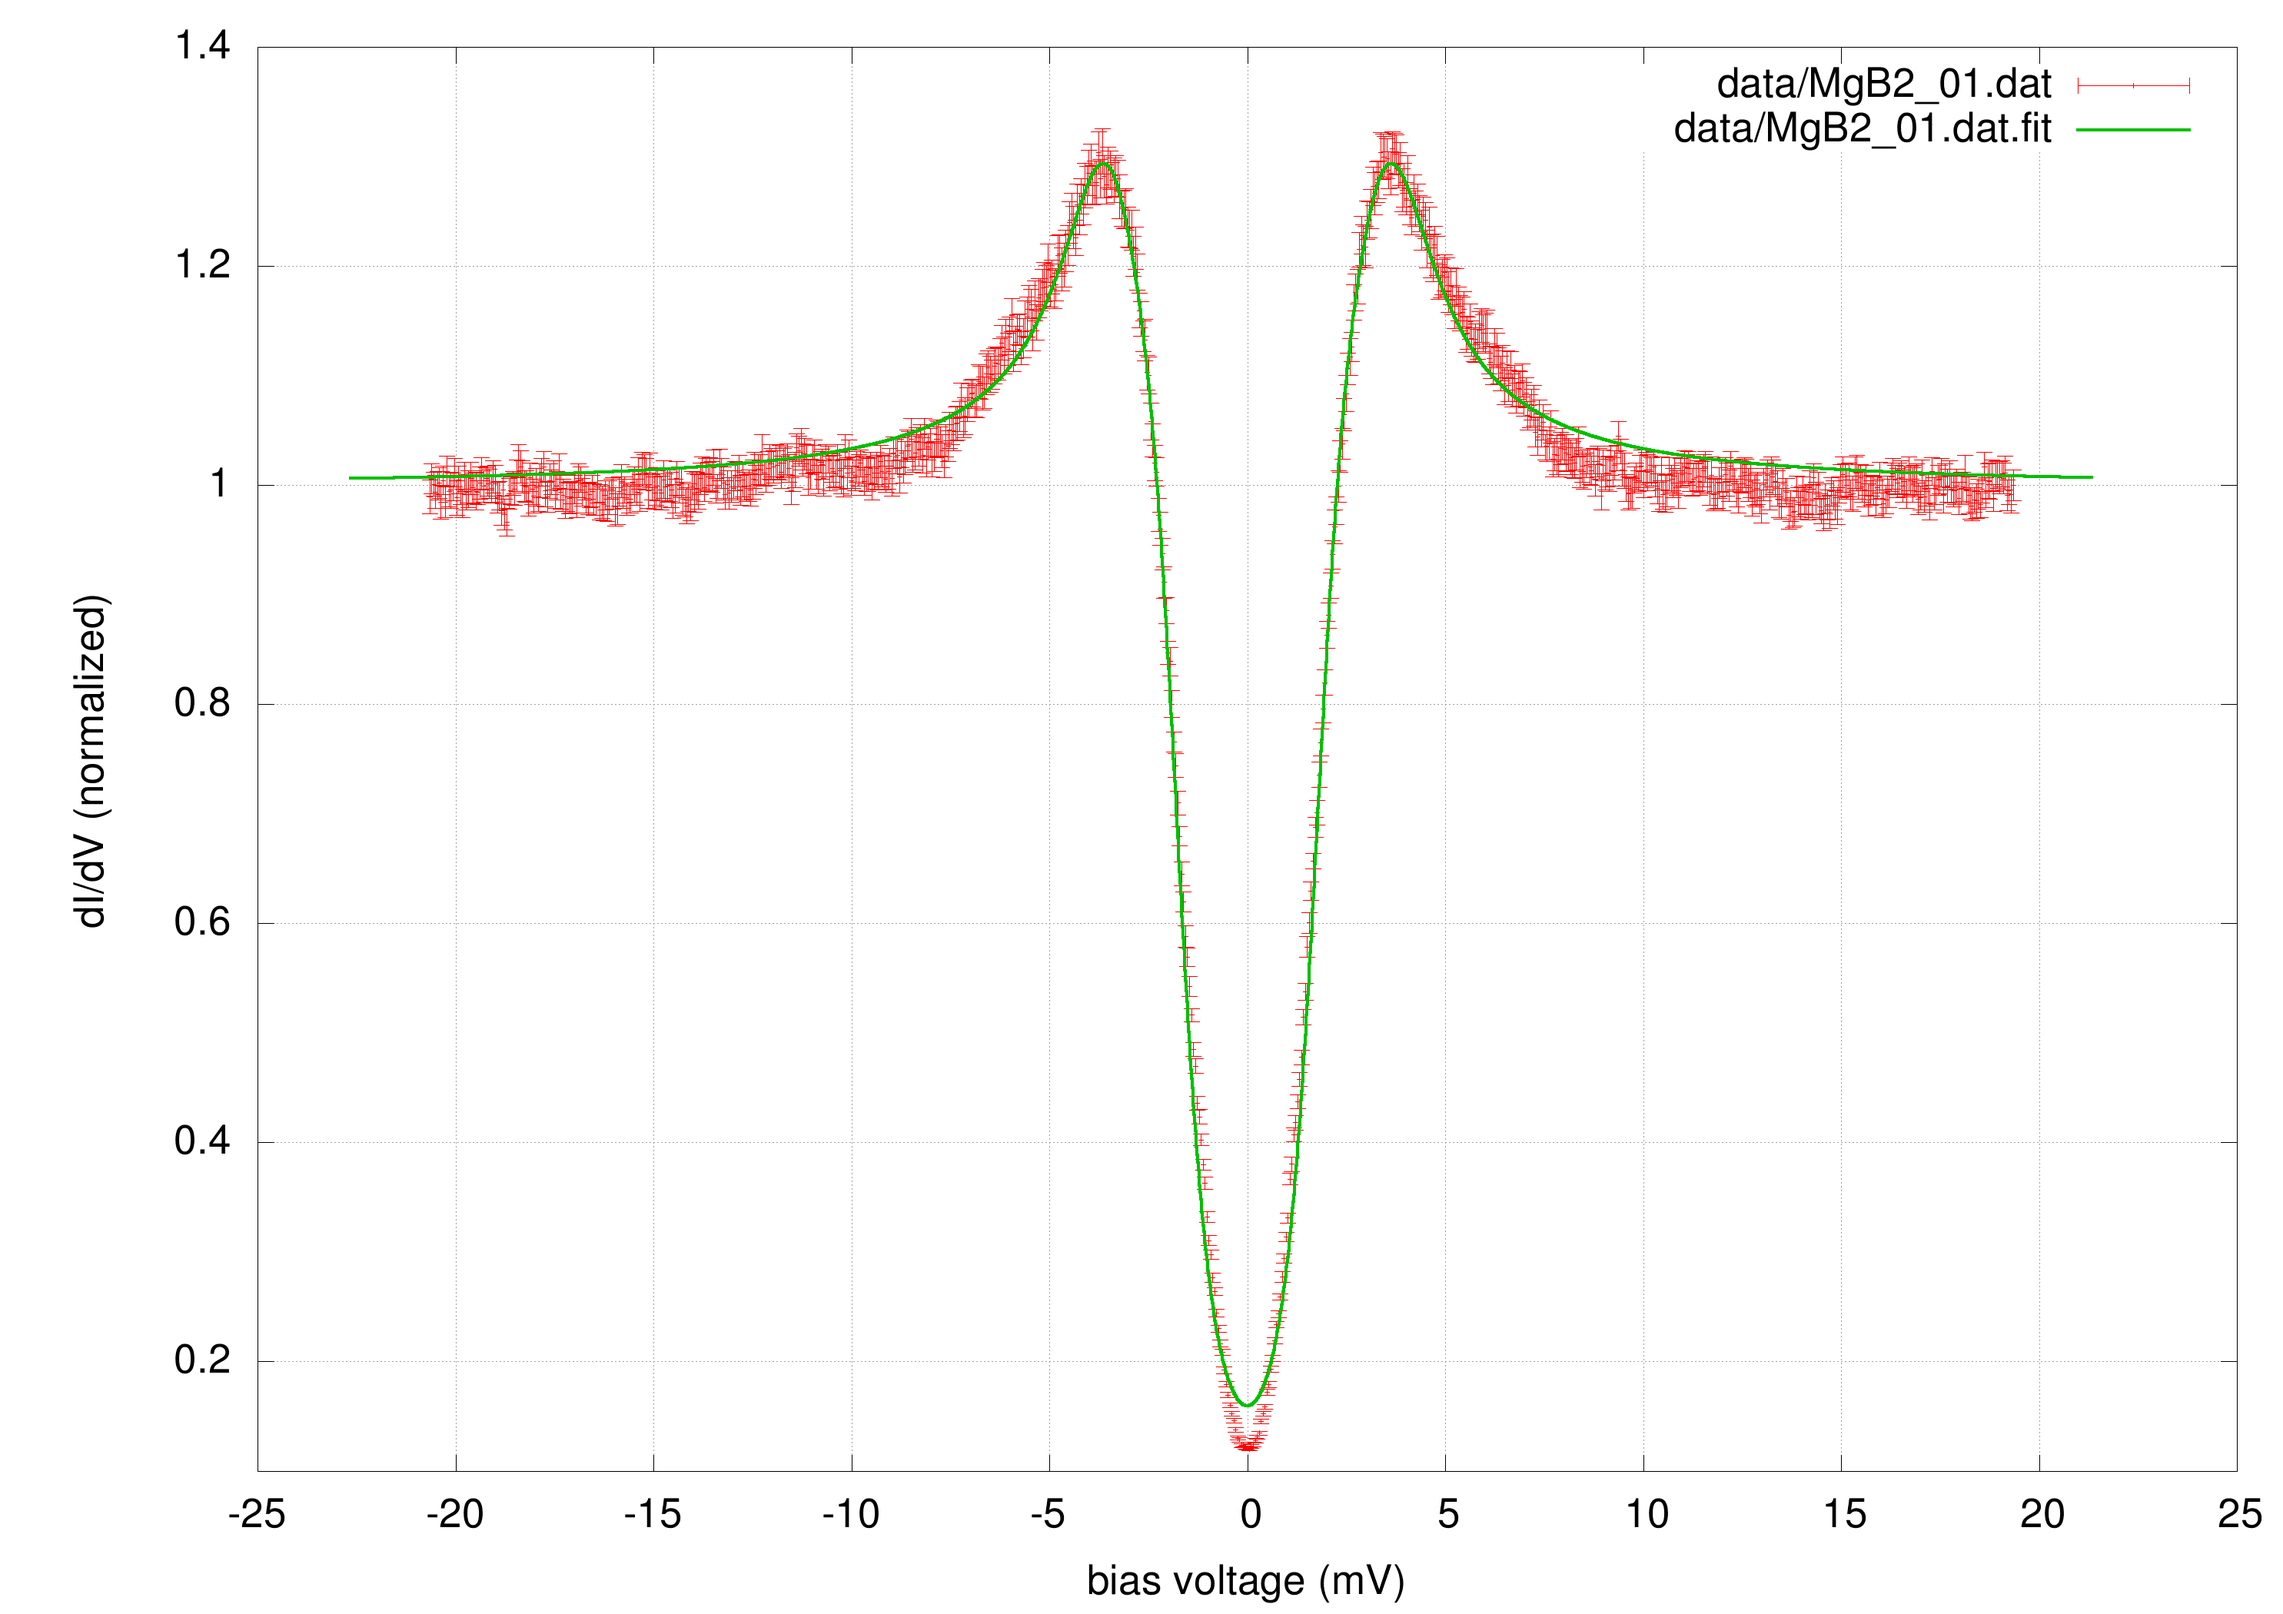
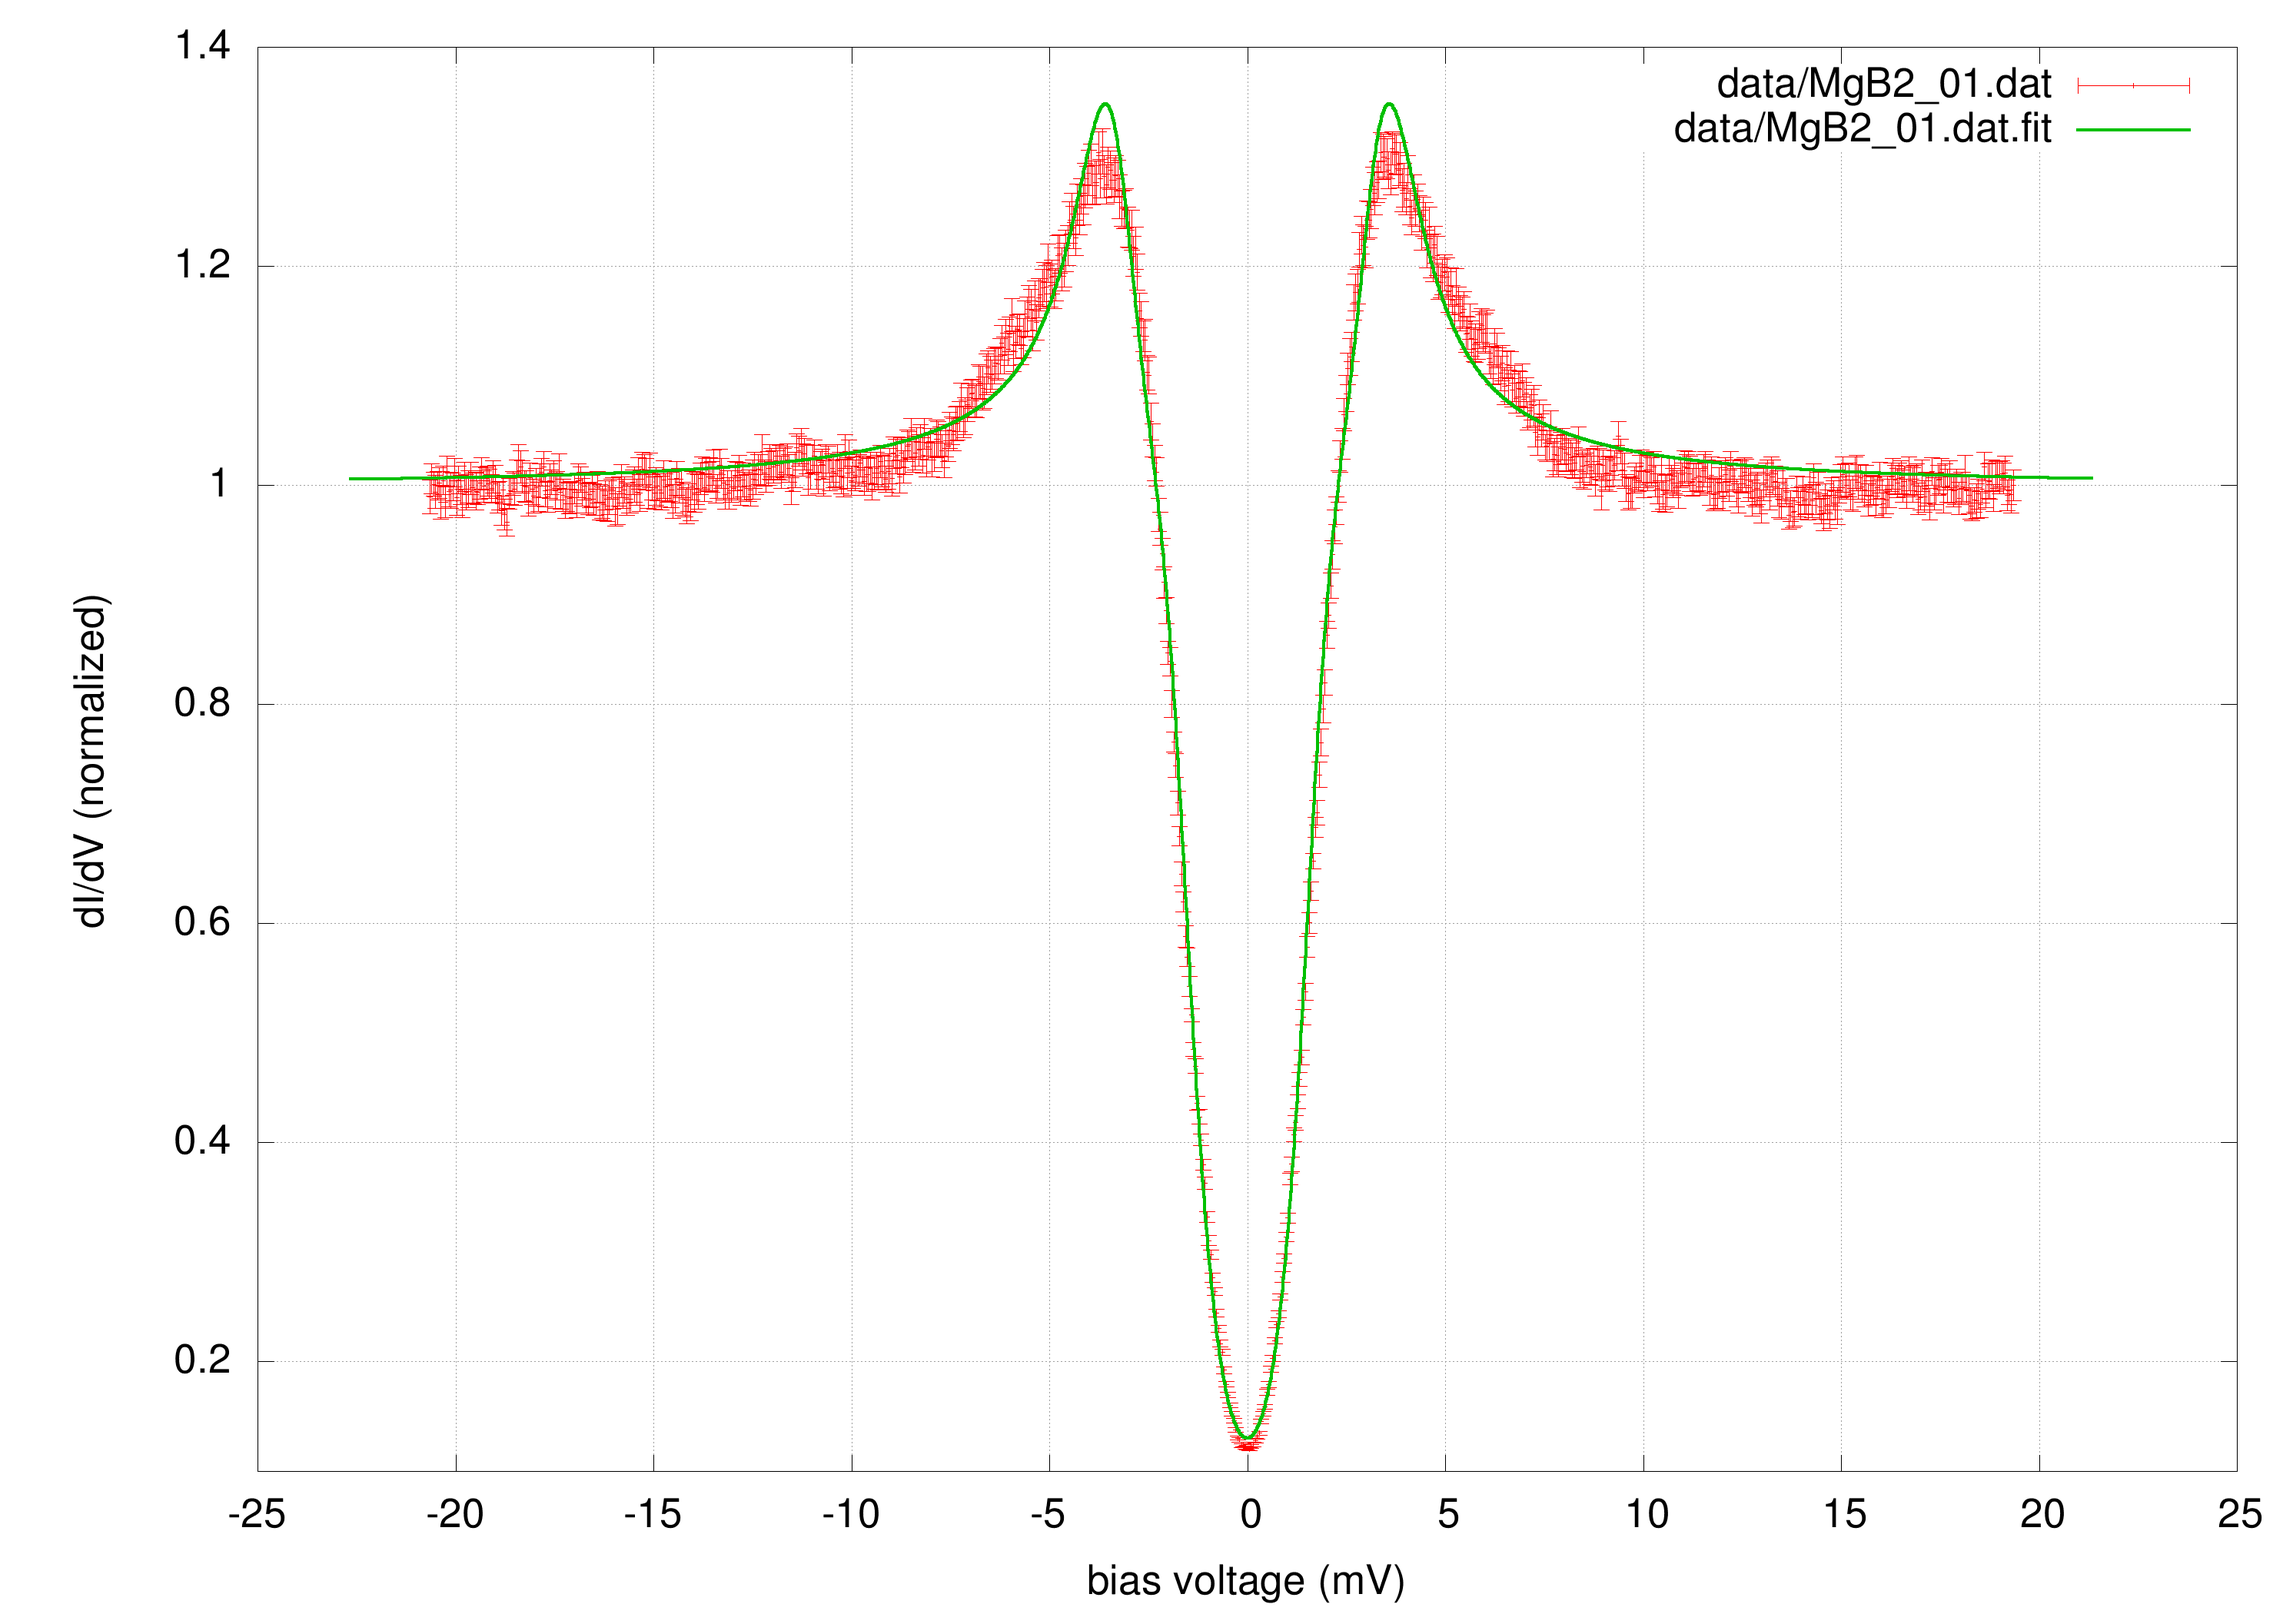
HUGE_VAL changed into a finite value to avoid GSL exceptions

diff --git a/src/common.h b/src/common.h
@@ -34,6 +34,7 @@
 #include <gsl/gsl_multifit_nlin.h>
 
 /* Constants and defaults */
+#define   MY_HUGE_VAL               1e5             /* A finite value...! */
 #define   DATADIR                   "data"
 #define   T0_default                4.200           /* Kelvin degrees */
 #define   Gamma1_0_default          0.200
@@ -43,8 +44,8 @@
 #define   alpha1_0_default          0.667           /* alpha1+alpha2=1 */
 #define   k_B_default               0.086           /* Boltzmann */
 #define   ExpDataFile_default       DATADIR"/MgB2_01.dat" 
-#define   Vi_default                -HUGE_VAL
-#define   Vf_default                HUGE_VAL
+#define   Vi_default                -MY_HUGE_VAL
+#define   Vf_default                MY_HUGE_VAL
 
 #define   MaxExpPoints              4096
 
@@ -67,19 +68,19 @@
 
 /* Constraints on parameters */
 #define   CONSTRAINT_GAMMA1_MIN     0.000
-#define   CONSTRAINT_GAMMA1_MAX     HUGE_VAL
+#define   CONSTRAINT_GAMMA1_MAX     MY_HUGE_VAL
 
 #define   CONSTRAINT_GAMMA2_MIN     0.000
-#define   CONSTRAINT_GAMMA2_MAX     HUGE_VAL
+#define   CONSTRAINT_GAMMA2_MAX     MY_HUGE_VAL
 
 #define   CONSTRAINT_DELTA1_MIN     0.000
-#define   CONSTRAINT_DELTA1_MAX     HUGE_VAL
+#define   CONSTRAINT_DELTA1_MAX     MY_HUGE_VAL
 
 #define   CONSTRAINT_DELTA2_MIN     0.000
-#define   CONSTRAINT_DELTA2_MAX     HUGE_VAL
+#define   CONSTRAINT_DELTA2_MAX     MY_HUGE_VAL
 
 #define   CONSTRAINT_ALPHA1_MIN     0.666
-#define   CONSTRAINT_ALPHA1_MAX     1.000    
+#define   CONSTRAINT_ALPHA1_MAX     1.0001    
 
 
 /* Types */

diff --git a/src/fit.c b/src/fit.c
@@ -53,7 +53,7 @@ residuals_vector_f(const gsl_vector * params, void * data, gsl_vector * f)
   for (i = 0; i < n; i++)
     {
       /* fitting an interval only */ 
-        /* might be Vi=-HUGE_VAL and/or Vf=HUGE_VAL for "unlimited" */
+        /* might be Vi=-MY_HUGE_VAL and/or Vf=MY_HUGE_VAL for "unlimited" */
       if (X[i]<Vi || X[i]>Vf) continue; 
       
       theory = Gin_doubleDeltaGamma(X[i], Gamma1, Gamma2, Delta1, Delta2, alpha1, T0);
@@ -65,7 +65,7 @@ residuals_vector_f(const gsl_vector * params, void * data, gsl_vector * f)
         Delta1,
         Delta2,
         alpha1
-      )) residual = residual * HUGE_VAL; 
+      )) residual = residual * MY_HUGE_VAL; 
 
       gsl_vector_set (f, i, residual);
     }  
@@ -109,7 +109,7 @@ squared_residuals_w_constraints(const gsl_vector * params, void * data)
     Delta1,
     Delta2,
     alpha1
-  )) return HUGE_VAL;
+  )) return MY_HUGE_VAL;
   
   return squared_residuals(params, data);
 }

diff --git a/src/misc.c b/src/misc.c
@@ -31,7 +31,7 @@ cpow_2(const gsl_complex z)
 
 double array_min(double *ary, size_t n) 
 {
-  double min = HUGE_VAL;
+  double min = MY_HUGE_VAL;
   size_t i;
 
   for (i=0;i<n;i++)
@@ -45,7 +45,7 @@ double array_min(double *ary, size_t n)
 
 double array_max(double *ary, size_t n) 
 {
-  double max = -HUGE_VAL;
+  double max = -MY_HUGE_VAL;
   size_t i;
 
   for (i=0;i<n;i++)
